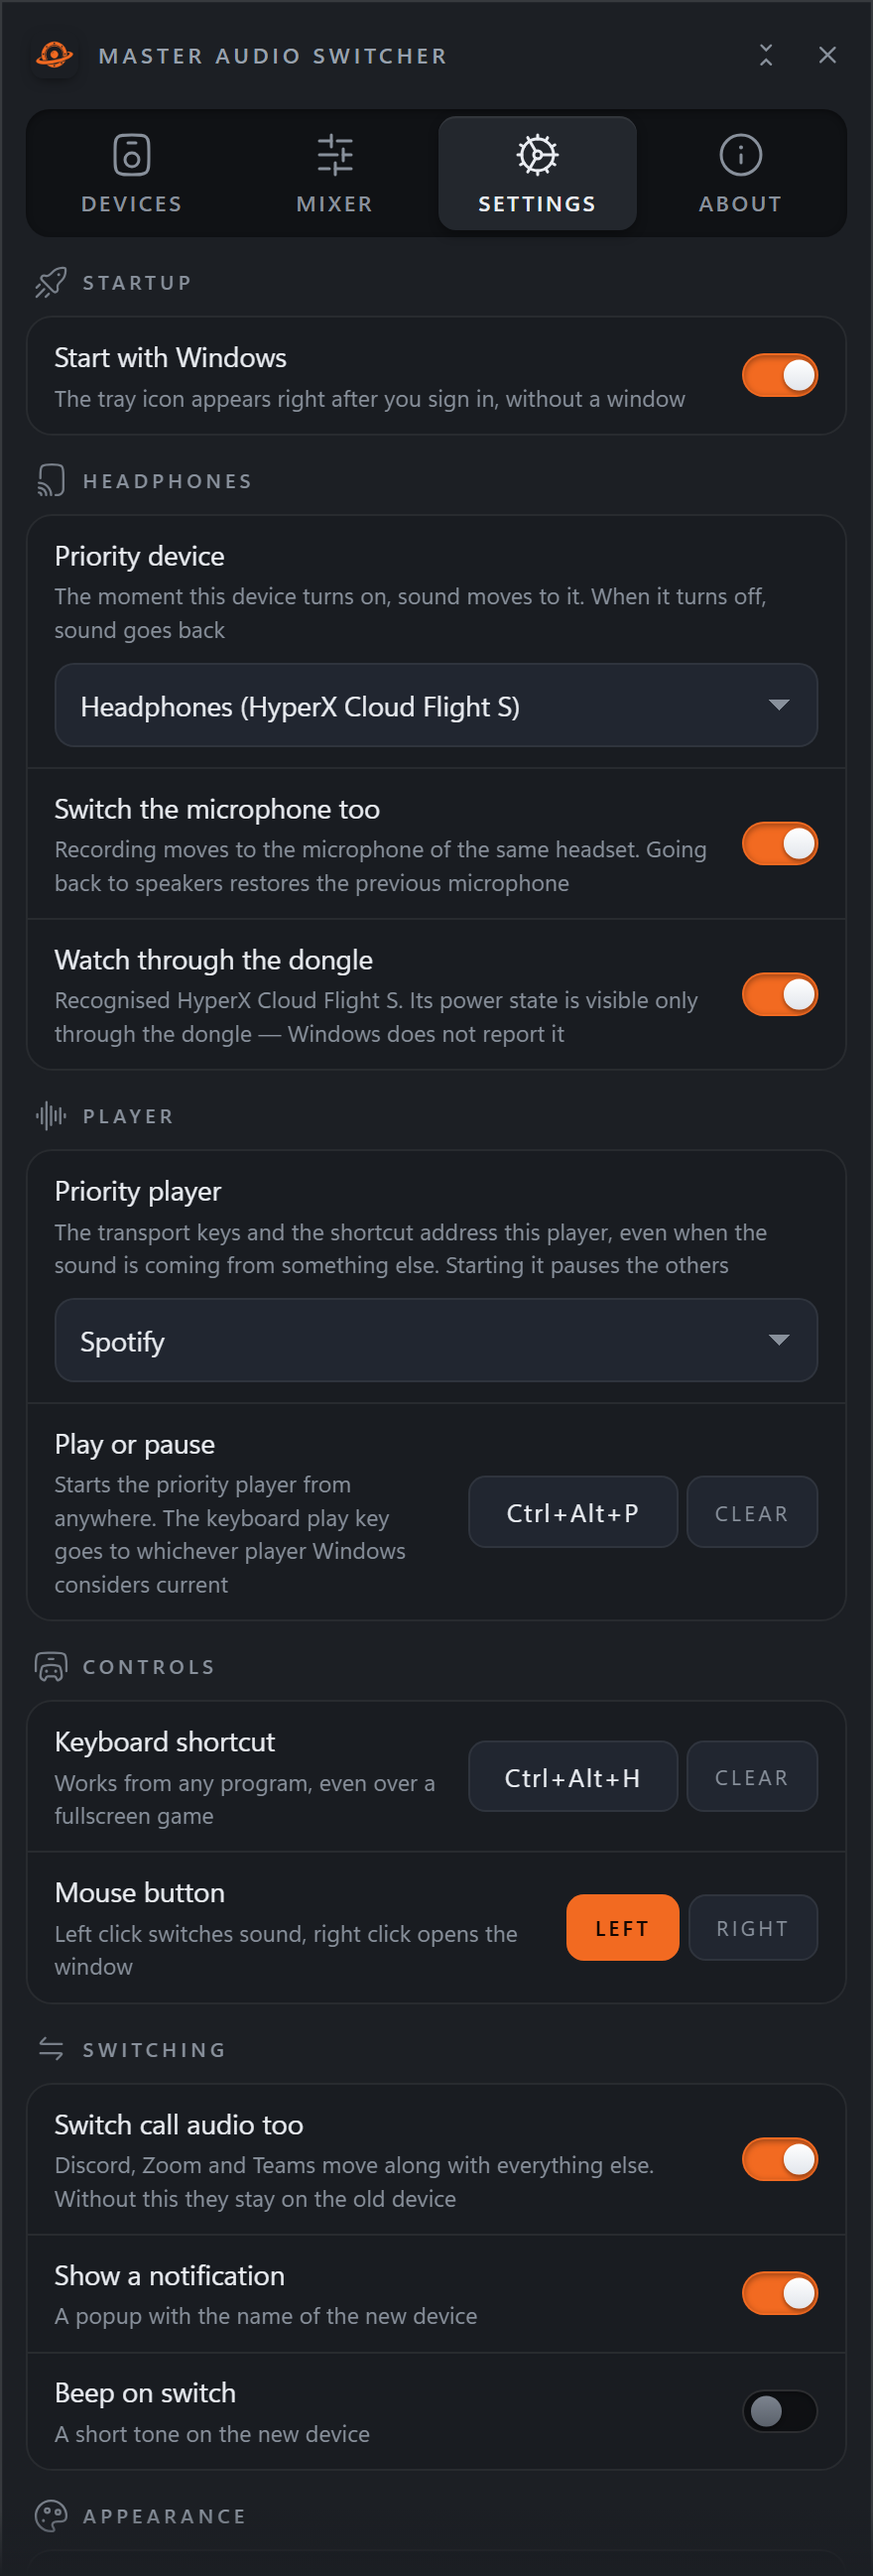
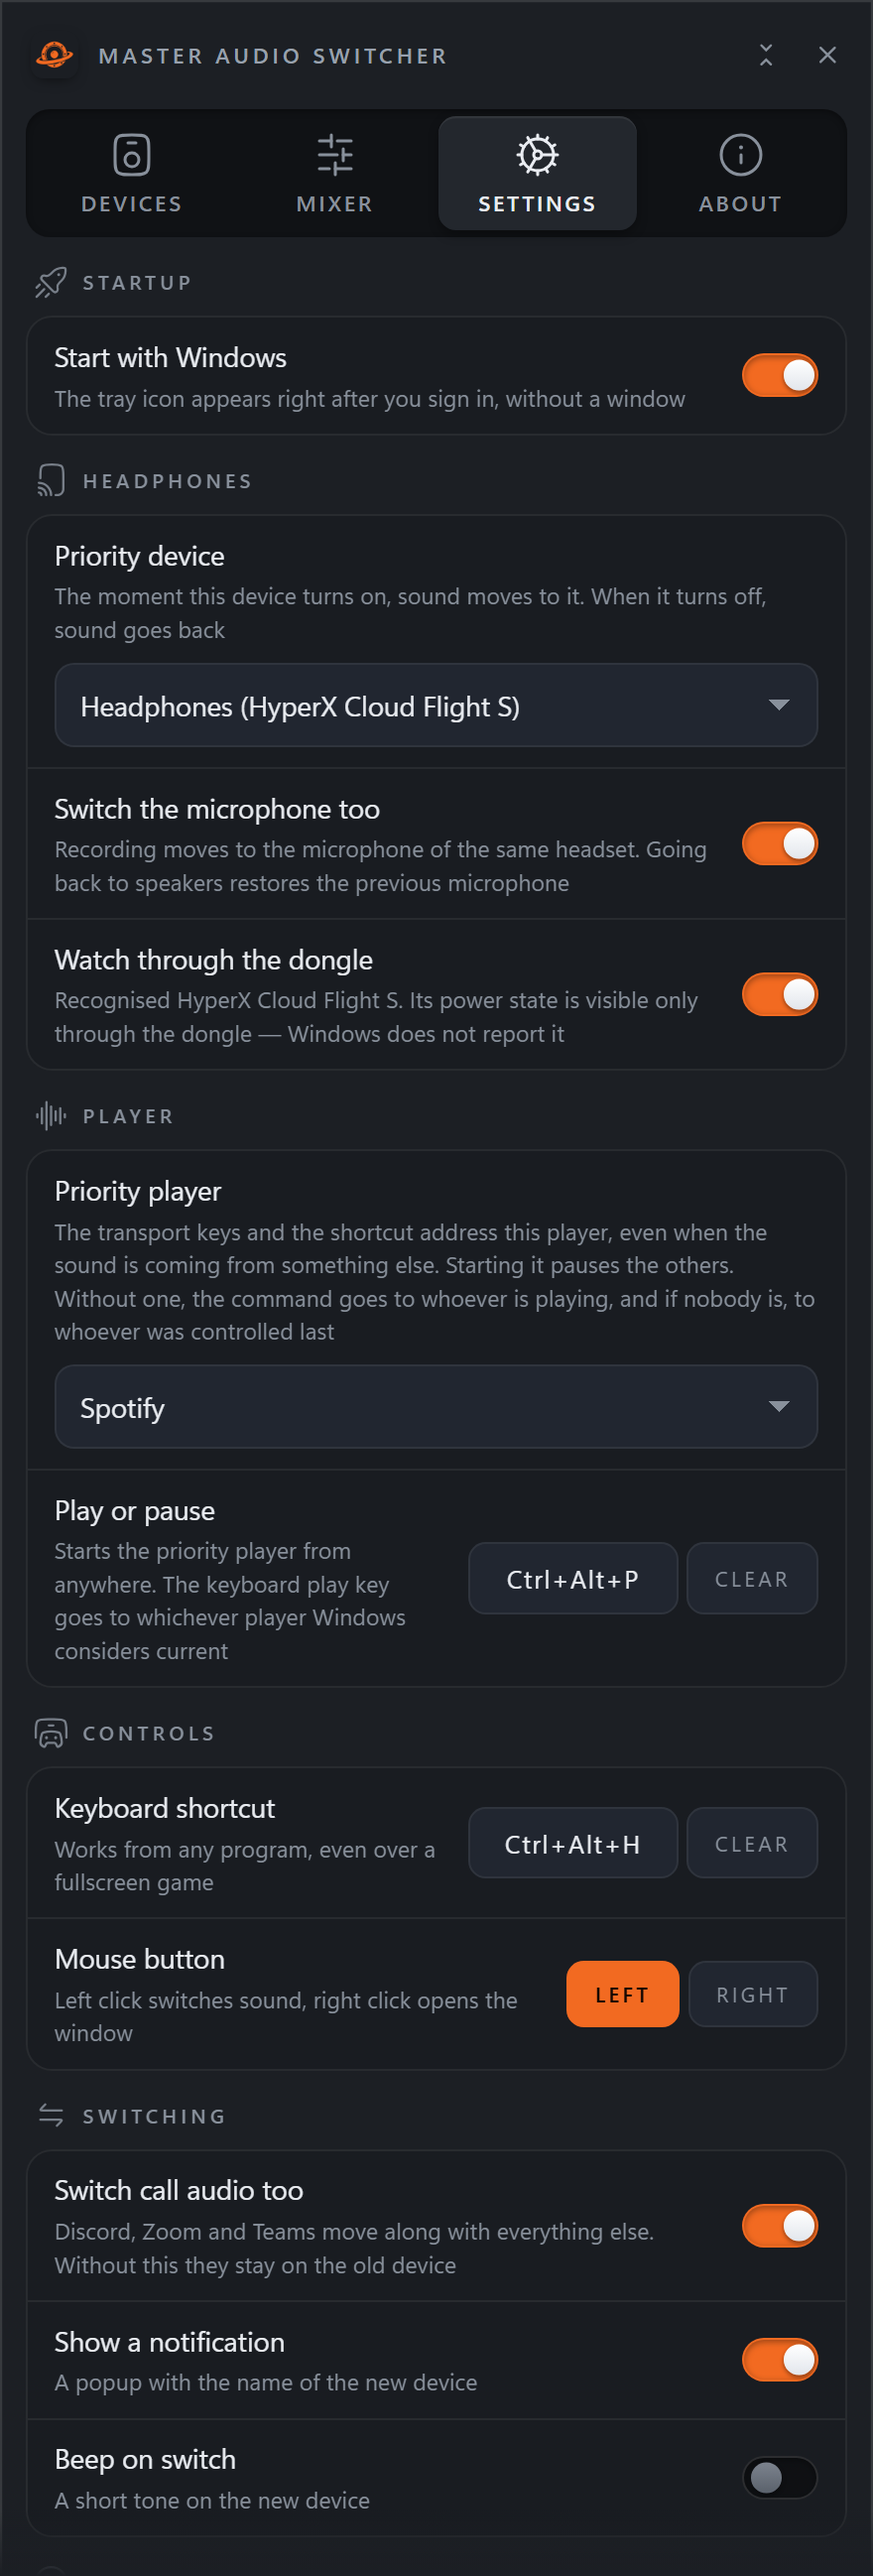
Let go of the player when its nomination is taken away
Reported: after switching the setting back to no player, commands still went to
Spotify. The setting itself was fine — the config held an empty value and the
log said "not chosen". What stayed was the habit.

With nobody nominated the command goes to whoever is playing, and if nobody is
playing, to whoever was controlled last. That last one was the player just
un-nominated, so it kept winning by inertia and the setting looked as if it had
never applied. Dropping a nomination now drops that memory too — but only when
it points at the player being released, because someone else's stickiness is
not ours to throw away.

The name of the empty option was untrue as well. It said Windows decides, and
Windows never decided anything here: the program has always had its own rule,
which is the whole reason this module exists. It is now simply "not selected",
and the description states the rule that applies without a nomination, since
that is exactly what was surprising.

Three cases added to the tests. A live re-check could not tell the two apart at
the moment: only one player is left in the session list, and a single player is
picked either way.

diff --git a/src/mas/ui/i18n.js b/src/mas/ui/i18n.js
@@ -38,8 +38,8 @@ const STRINGS = {
     hk_none: 'Не задано', hk_press: 'Нажми сочетание…', hk_clear: 'Убрать',
     hk_taken: 'Это сочетание уже занято другой программой — выбери другое',
     player: 'Плеер', player_row: 'Приоритетный плеер',
-    player_d: 'Кнопки плеера и сочетание клавиш управляют именно им, даже когда звук идёт из другой программы. При запуске остальные ставятся на паузу',
-    player_none: 'Выбирает Windows',
+    player_d: 'Кнопки плеера и сочетание клавиш управляют именно им, даже когда звук идёт из другой программы. При запуске остальные ставятся на паузу. Без него команда идёт тому, кто играет, а если не играет никто — тому, кем управляли в прошлый раз',
+    player_none: 'Не выбран',
     player_key: 'Играть или пауза', player_key_d: 'Запускает приоритетный плеер откуда угодно. Клавиша Play на клавиатуре уходит тому, кого текущим считает Windows',
     language: 'Язык', startup: 'Запуск', switching: 'Переключение', appearance: 'Оформление',
     autostart: 'Запускать с Windows',
@@ -92,8 +92,8 @@ const STRINGS = {
     hk_none: 'Не задано', hk_press: 'Натисни сполучення…', hk_clear: 'Прибрати',
     hk_taken: 'Це сполучення вже зайняте іншою програмою — вибери інше',
     player: 'Плеєр', player_row: 'Пріоритетний плеєр',
-    player_d: 'Кнопки плеєра та сполучення клавіш керують саме ним, навіть коли звук іде з іншої програми. Під час запуску решта стає на паузу',
-    player_none: 'Обирає Windows',
+    player_d: 'Кнопки плеєра та сполучення клавіш керують саме ним, навіть коли звук іде з іншої програми. Під час запуску решта стає на паузу. Без нього команда йде тому, хто грає, а якщо не грає ніхто — тому, ким керували минулого разу',
+    player_none: 'Не вибрано',
     player_key: 'Грати або пауза', player_key_d: 'Запускає пріоритетний плеєр звідки завгодно. Клавіша Play на клавіатурі йде тому, кого поточним вважає Windows',
     language: 'Мова', startup: 'Запуск', switching: 'Перемикання', appearance: 'Оформлення',
     autostart: 'Запускати з Windows',
@@ -146,8 +146,8 @@ const STRINGS = {
     hk_none: 'Not set', hk_press: 'Press a shortcut…', hk_clear: 'Clear',
     hk_taken: 'Another program already owns this shortcut — pick a different one',
     player: 'Player', player_row: 'Priority player',
-    player_d: 'The transport keys and the shortcut address this player, even when the sound is coming from something else. Starting it pauses the others',
-    player_none: 'Windows decides',
+    player_d: 'The transport keys and the shortcut address this player, even when the sound is coming from something else. Starting it pauses the others. Without one, the command goes to whoever is playing, and if nobody is, to whoever was controlled last',
+    player_none: 'Not selected',
     player_key: 'Play or pause', player_key_d: 'Starts the priority player from anywhere. The keyboard play key goes to whichever player Windows considers current',
     language: 'Language', startup: 'Startup', switching: 'Switching', appearance: 'Appearance',
     autostart: 'Start with Windows',

diff --git a/tests/test_smoke.py b/tests/test_smoke.py
@@ -334,6 +334,24 @@ check("its name is remembered for the settings list",
 check("it is offered even while it is not running",
       named._pick([opera]).source_app_user_model_id, "Opera")
 
+# Taking the nomination away must actually change what happens. Without this the
+# un-nominated player kept winning as "the one controlled last", and the setting
+# looked as though it had not applied at all.
+dropped = Players()
+dropped.set_priority("Spotify")
+dropped._last_app = "Spotify"
+dropped.set_priority("")
+check("the habit goes with the nomination", dropped._last_app, None)
+check("and the command follows whoever plays",
+      dropped._pick([opera, spotify]).source_app_user_model_id, "Opera")
+
+# Somebody else's stickiness is not ours to throw away.
+kept = Players()
+kept.set_priority("Spotify")
+kept._last_app = "Opera"
+kept.set_priority("")
+check("an unrelated last target is left alone", kept._last_app, "Opera")
+
 # A nominated player that stopped responding must not hold the command hostage.
 mute = Players()
 mute.set_priority("Spotify")

diff --git a/src/mas/core/players.py b/src/mas/core/players.py
@@ -96,10 +96,19 @@ class Players(threading.Thread):
         self._jobs.put(("cmd", action))
 
     def set_priority(self, app_id: str) -> None:
+        was = self._priority
         self._priority = app_id or ""
         if self._priority:
             with self._lock:
                 self._seen.setdefault(self._priority, self._short(self._priority))
+        # Taking the nomination away has to take the habit away with it. When
+        # nobody is playing the command goes to whoever we controlled last, and
+        # that is the player just un-nominated: it would keep winning by inertia,
+        # and from the outside the setting would look as if it had not applied.
+        elif was and self._last_app == was:
+            self._last_app = None
+            _log.info("%s is no longer nominated — forgetting it as the last target",
+                      self._short(was))
         _log.info("priority player: %s",
                   self._short(self._priority) if self._priority else "not chosen")
 
